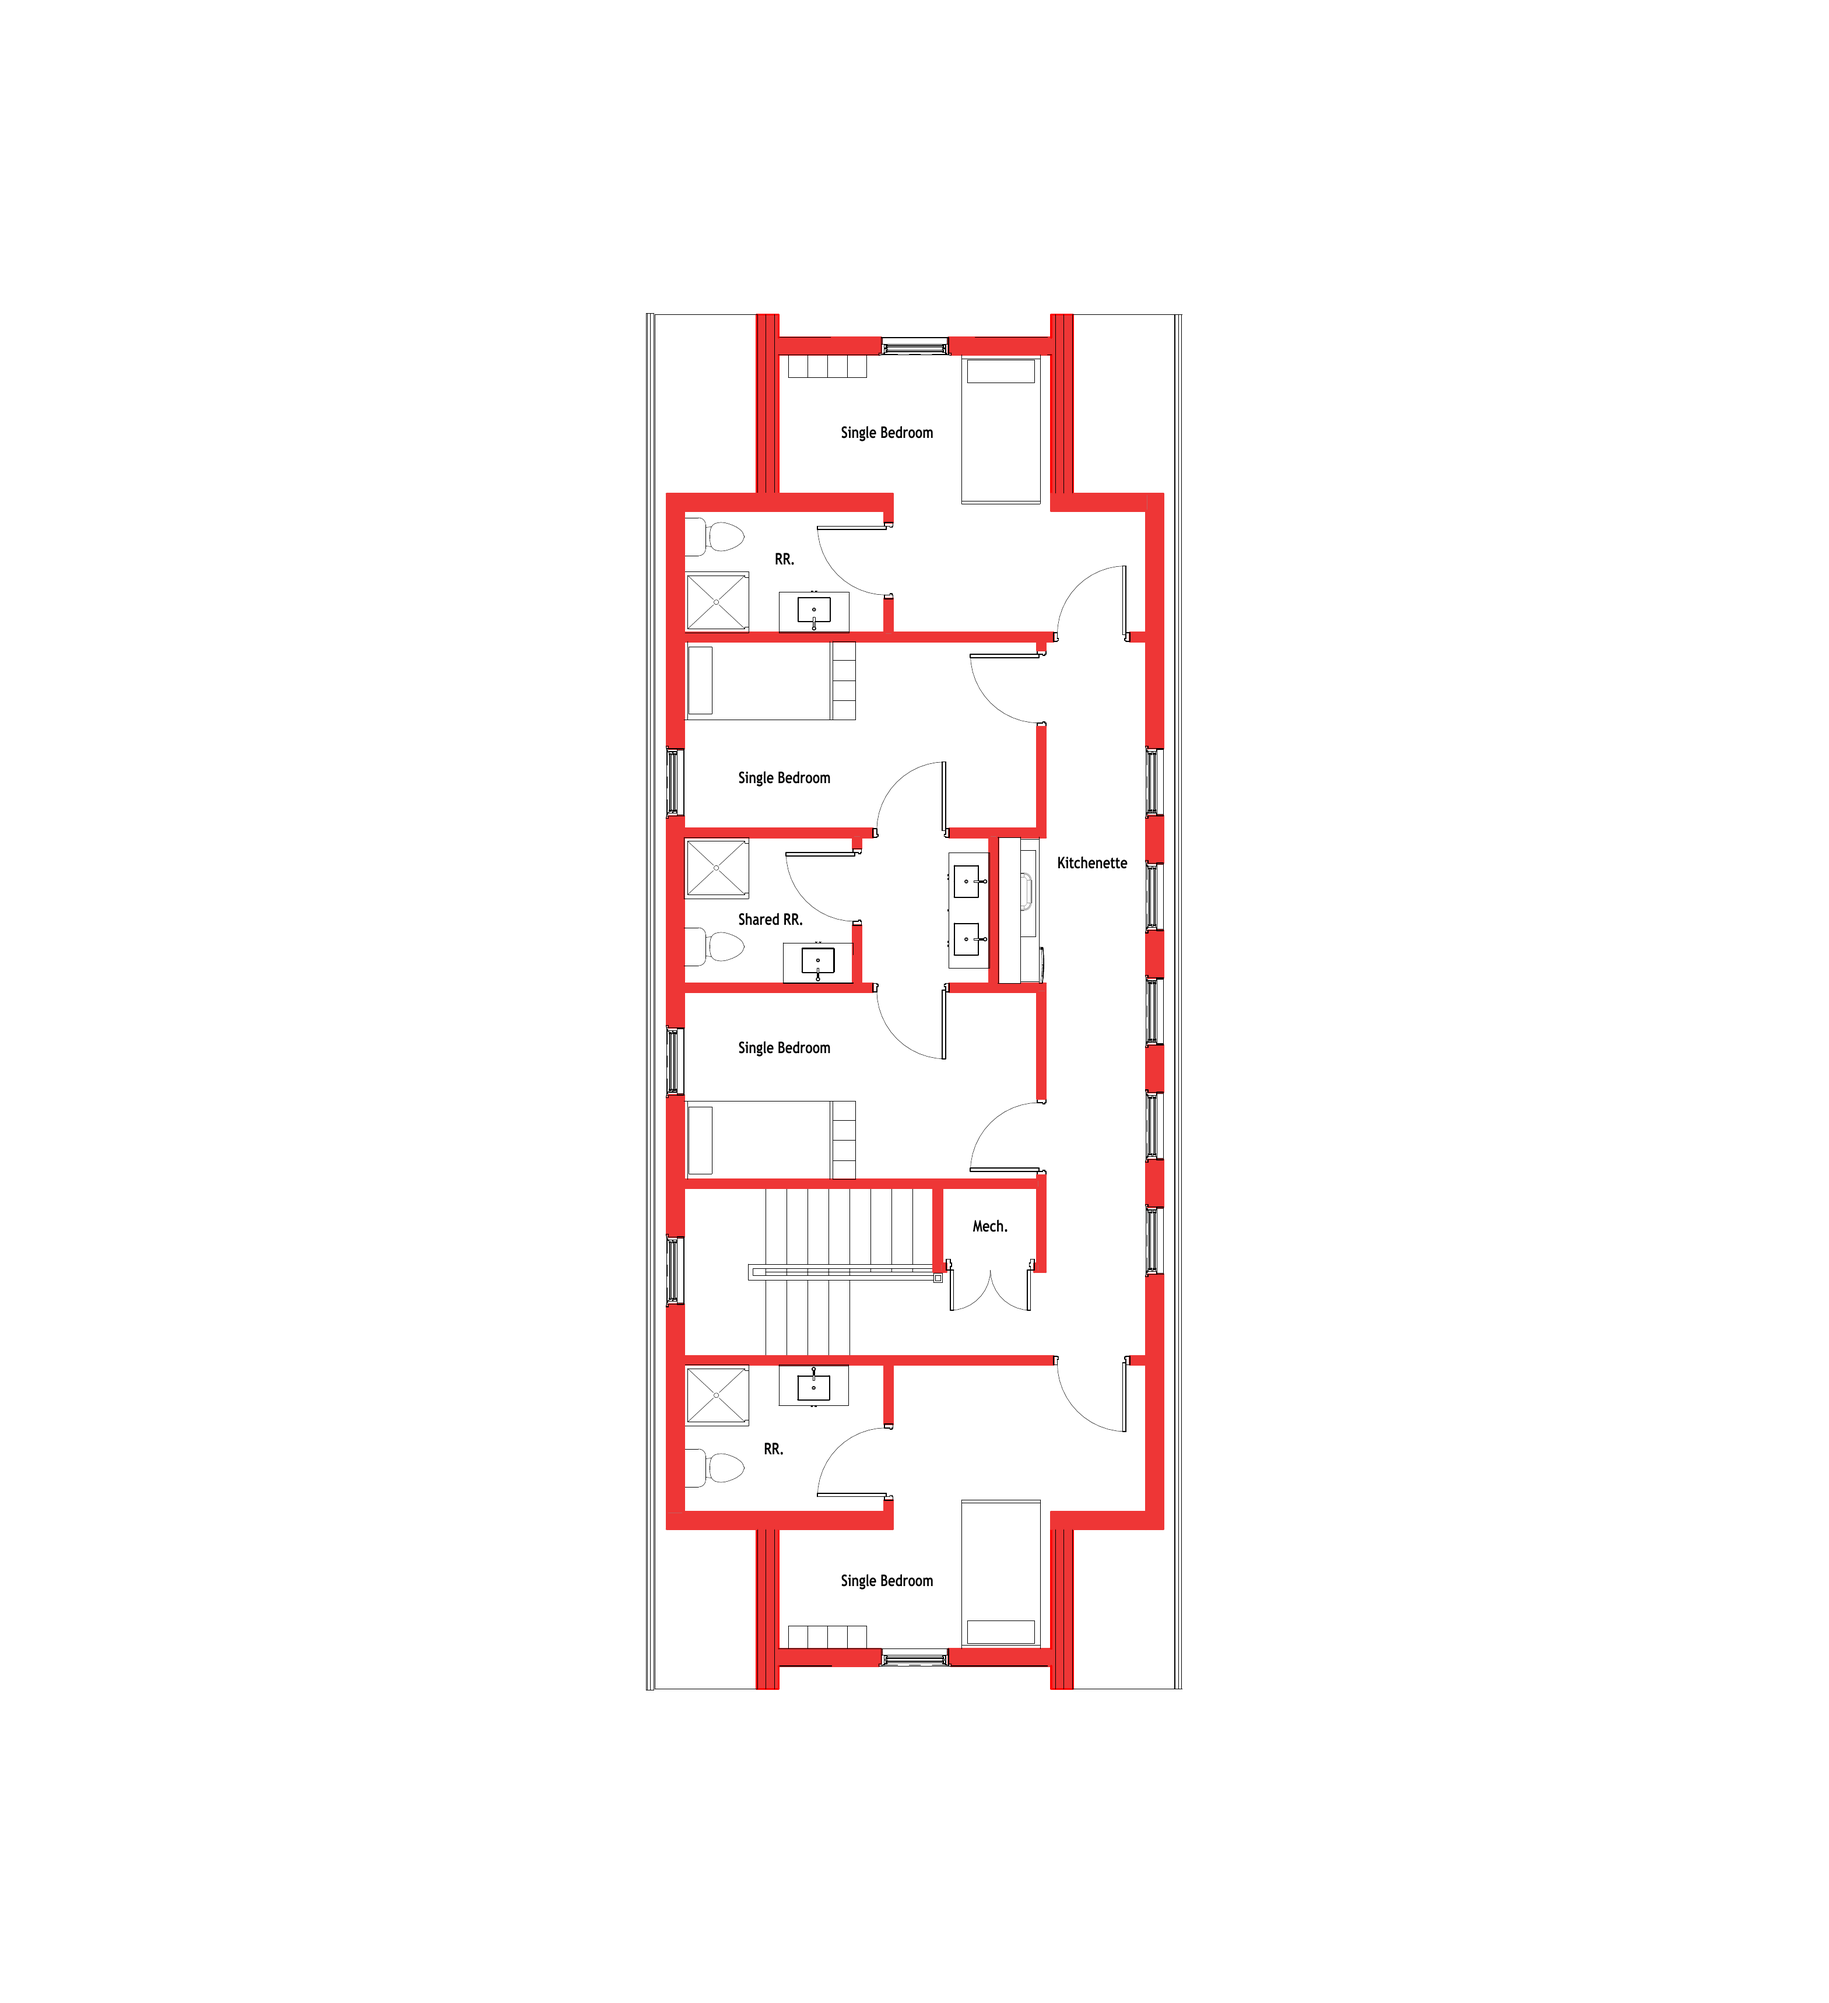
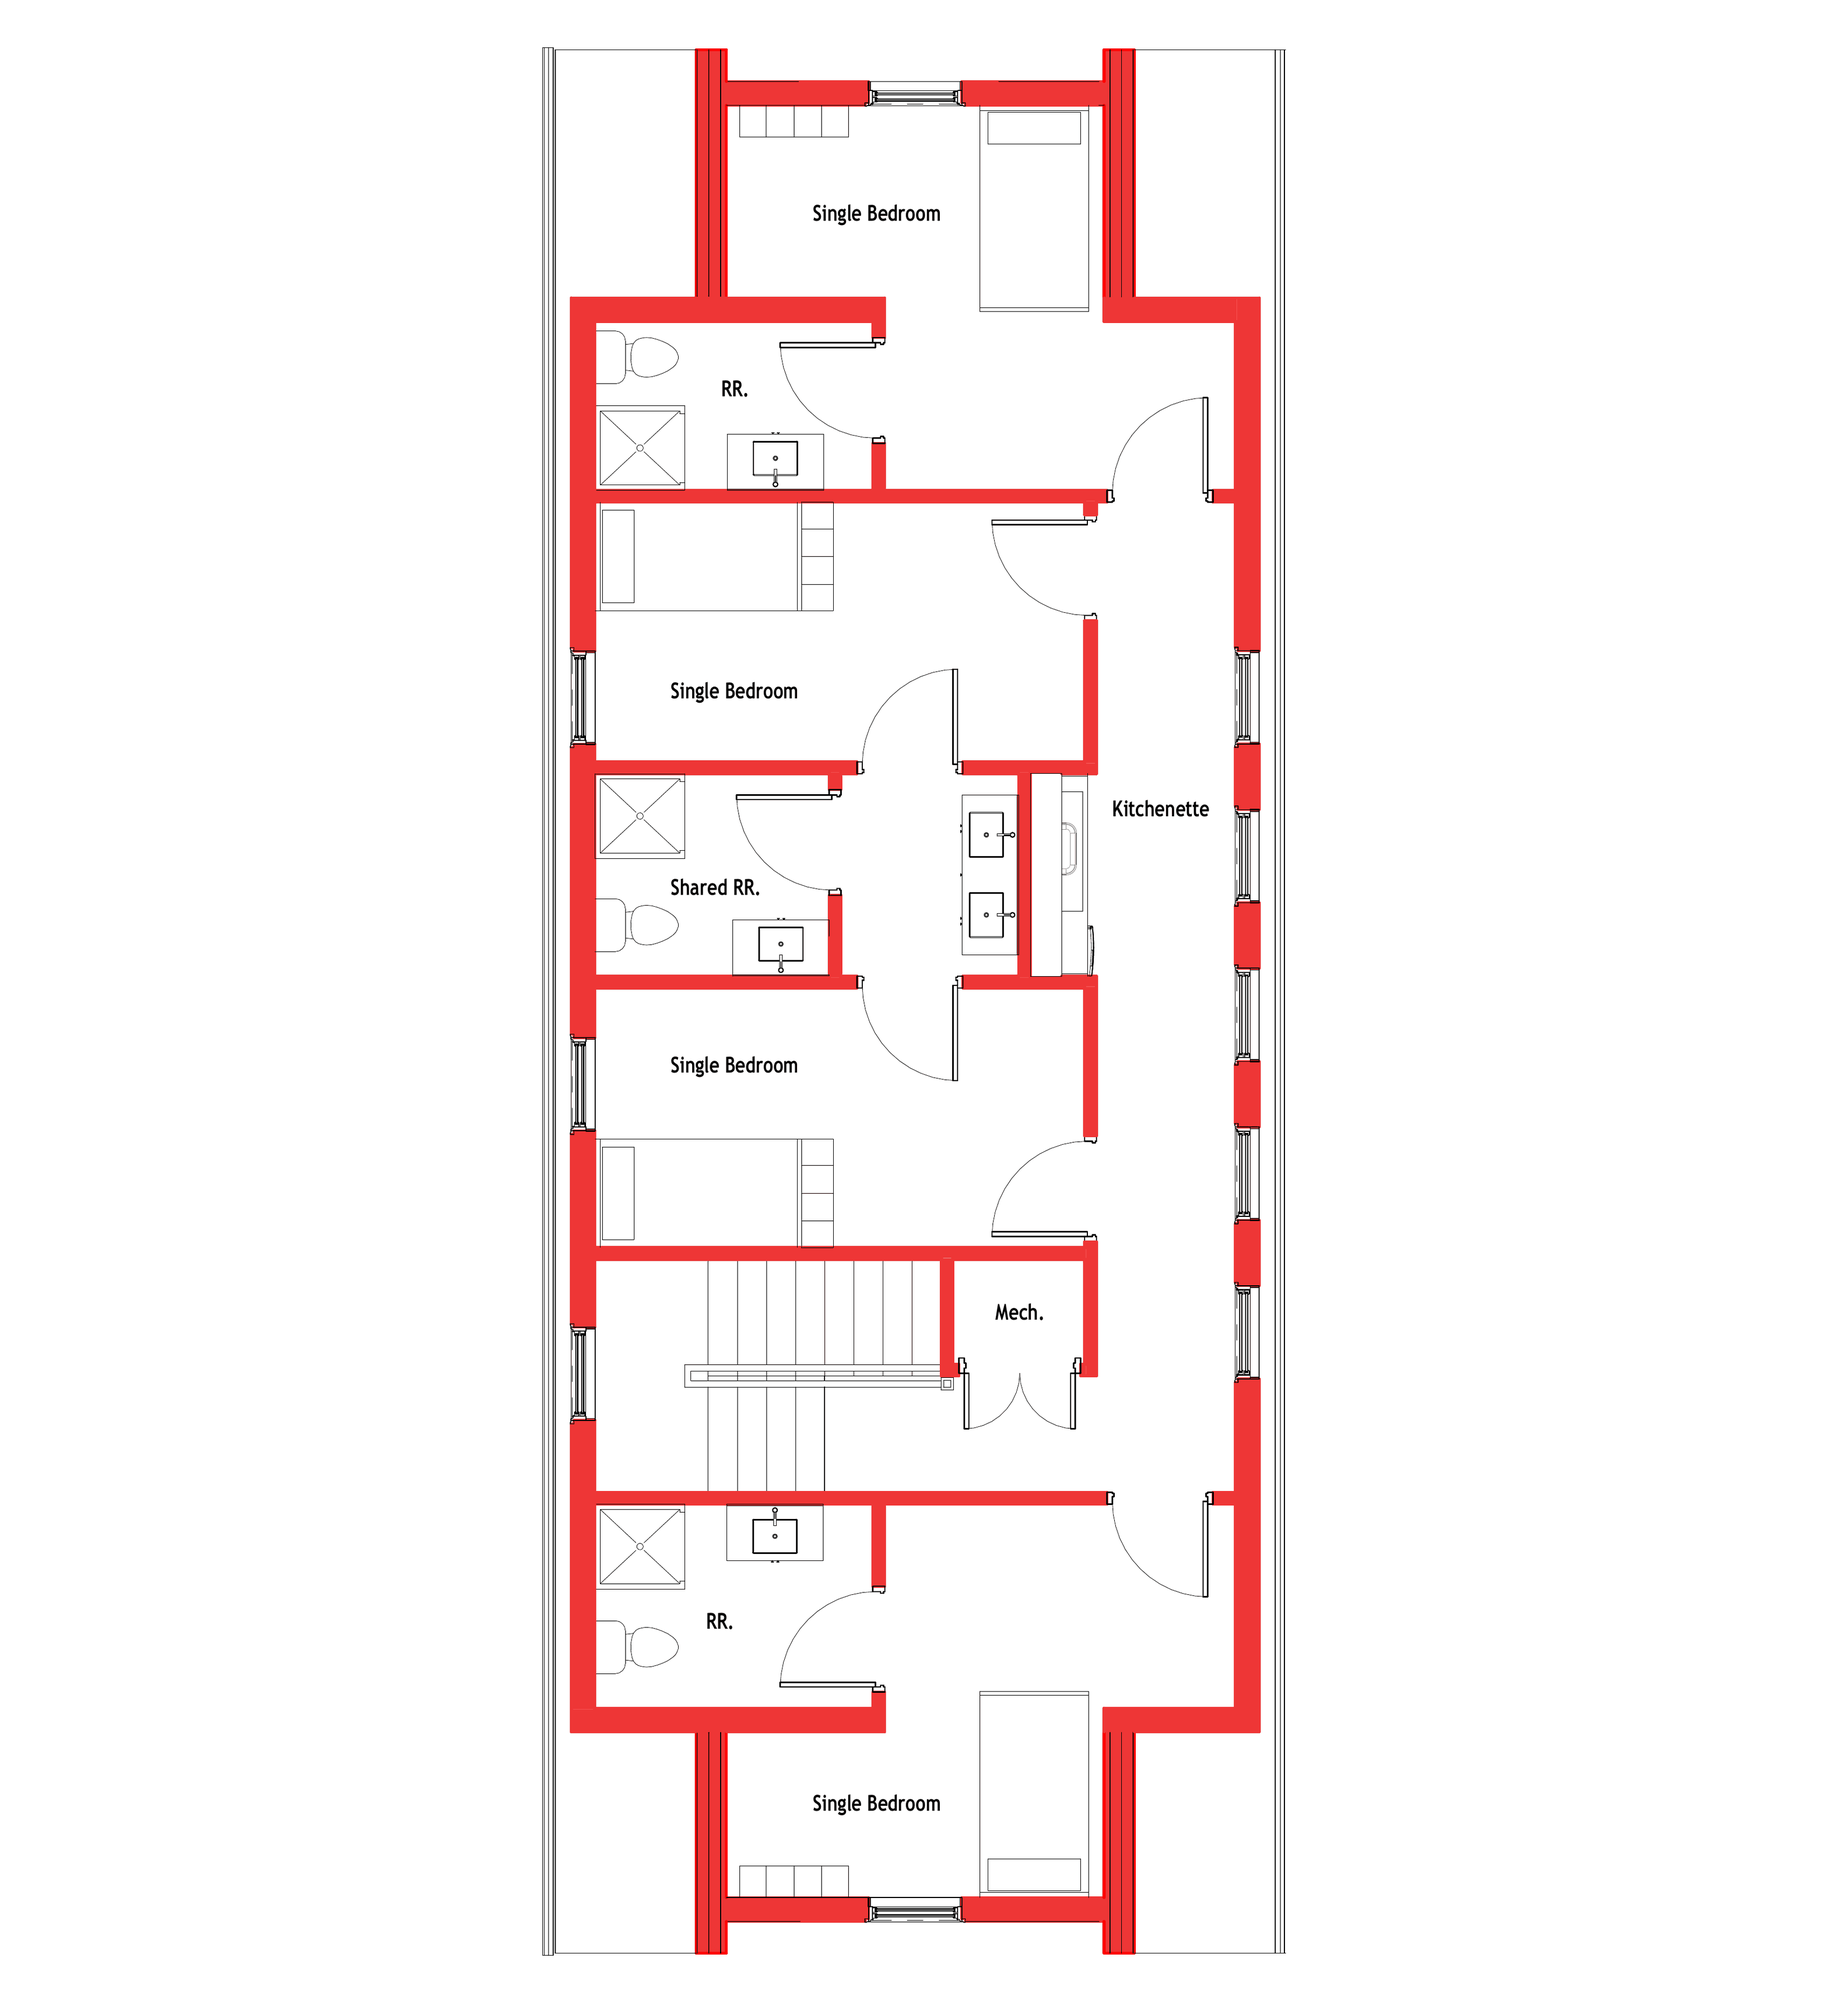
Dormer plan fills the frame like the other floors
Claude-Session: https://claude.ai/code/session_01UdRhD9eHH62cieLrJbC5TD

Changed region(s): [[0.2812, 0.0, 0.7185, 0.9968]]

diff --git a/content.js b/content.js
@@ -74,7 +74,7 @@ window.PROPOSAL = {
       floorPlan: "dormer.png",
       floorPlanFull: "dormer.pdf",
       views: [
-        { name: "Kitchenette", url: "https://kuula.co/share/LC6vg?logo=1&info=1&fs=1&vr=0&sd=1&thumbs=1", pin: { x: 59.7, y: 45.2 } },
+        { name: "Kitchenette", url: "https://kuula.co/share/LC6vg?logo=1&info=1&fs=1&vr=0&sd=1&thumbs=1", pin: { x: 63.3, y: 43.4 } },
       ],
     },
 
